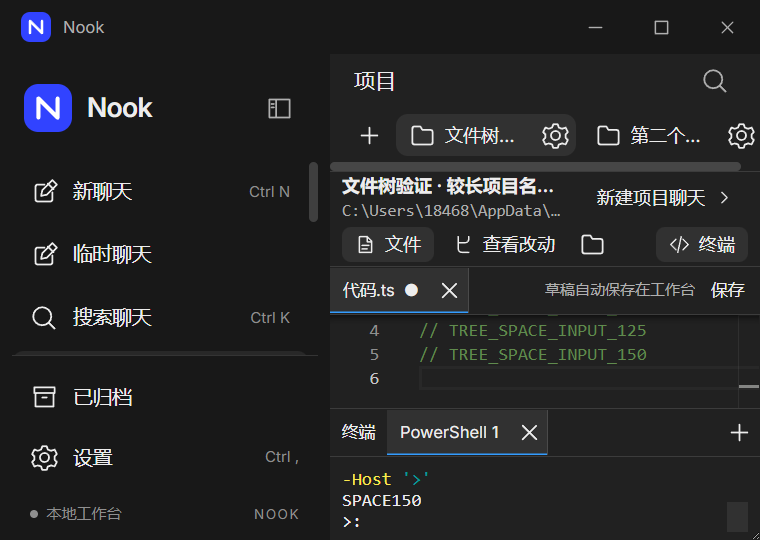
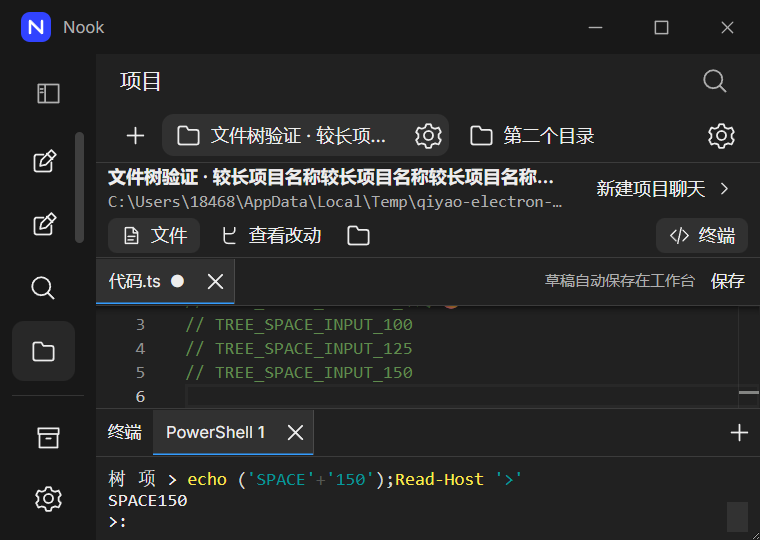
feat(ui): 增加窄窗口紧凑导航并修复聊天列表遮挡

diff --git a/workbench/workbench.tsx b/workbench/workbench.tsx
@@ -245,7 +245,7 @@ export function Workbench() {
   const library = state && <KnowledgeLibrary state={state} onState={setState} report={report} onUse={(type, id) => { if (type === 'collection') { newChat(); setKnowledgeCollectionIds([id]); } else { const note = state.notes.find((item) => item.id === id); if (!note) return; const next = `请参考以下资料回答我的问题：\n\n${note.title}\n${note.content}\n\n我的问题：`; if (next.length > 256_000) { report(new Error('这份资料较长，请使用资料集检索并输入问题。')); return; } newChat(); setText(next); } }} />;
   return <div className={`app-shell ${sidebar ? '' : 'sidebar-hidden'}`}>
     <header className="window-chrome"><div className="window-title"><Emblem size={20} /><span>Nook</span></div><div className="window-actions"><IconButton icon="minimize" label="最小化" onClick={() => { void window.qiyao.windowAction('minimize'); }} /><IconButton icon="maximize" label="最大化或还原" onClick={() => { void window.qiyao.windowAction('maximize'); }} /><IconButton icon="close" label="关闭窗口" onClick={() => { void window.qiyao.windowAction('close'); }} /></div></header>
-    {sidebar && <aside className="sidebar"><div className="sidebar-brand"><Emblem size={32} /><div><strong>Nook</strong></div><IconButton icon="panel" label="收起侧边栏" onClick={() => setSidebar(false)} /></div><div className="sidebar-main"><nav className="primary-nav"><Button className={page === 'chat' && !threadId ? 'nav-row selected' : 'nav-row'} onClick={newChat}><Glyph name="compose" />新聊天<kbd>Ctrl N</kbd></Button><Button className="nav-row" disabled={!state || startingTemporary} onClick={() => { void newTemporaryChat(); }}><Glyph name="compose" />临时聊天</Button><Button className="nav-row" onClick={() => setSearch('')}><Glyph name="search" />搜索聊天<kbd>Ctrl K</kbd></Button>{navigation.map((item) => <Button key={item.page} className={`nav-row ${page === item.page ? 'selected' : ''}`} onClick={() => setPage(item.page)}><Glyph name={item.icon} />{item.label}</Button>)}</nav><div className="sidebar-section-label">最近聊天<span>{recent.length || ''}</span></div><div className="thread-list">{recent.slice(0, 100).map((item) => <Button key={item.id} className={`thread-row ${threadId === item.id && page === 'chat' ? 'selected' : ''}`} onClick={() => openThread(item)}>{item.pinned && <Glyph name="pin" size={12} />}<span>{item.temporary ? `临时 · ${item.title}` : item.title}</span>{item.messages.some((message) => message.status === 'running') && <span className="stream-dot" />}</Button>)}{recent.length === 0 && <p className="sidebar-empty">暂无聊天</p>}</div></div><footer className="sidebar-footer"><Button className="nav-row" onClick={() => setPage('archive')}><Glyph name="archive" />已归档</Button><Button className="nav-row" onClick={() => setSettings(true)}><Glyph name="settings" />设置<kbd>Ctrl ,</kbd></Button><div className="local-indicator"><span className="status-dot" />本地工作台<span>NOOK</span></div></footer></aside>}
+    {sidebar && <aside className="sidebar"><div className="sidebar-brand"><Emblem size={32} /><div><strong>Nook</strong></div><IconButton icon="panel" label="收起侧边栏" onClick={() => setSidebar(false)} /></div><div className="sidebar-main"><nav className="primary-nav"><Button className={page === 'chat' && !threadId ? 'nav-row selected' : 'nav-row'} title="新聊天" onClick={newChat}><Glyph name="compose" />新聊天<kbd>Ctrl N</kbd></Button><Button className="nav-row" title="临时聊天" disabled={!state || startingTemporary} onClick={() => { void newTemporaryChat(); }}><Glyph name="compose" />临时聊天</Button><Button className="nav-row" title="搜索聊天" onClick={() => setSearch('')}><Glyph name="search" />搜索聊天<kbd>Ctrl K</kbd></Button>{navigation.map((item) => <Button key={item.page} title={item.label} className={`nav-row ${page === item.page ? 'selected' : ''}`} onClick={() => setPage(item.page)}><Glyph name={item.icon} />{item.label}</Button>)}</nav><div className="sidebar-section-label">最近聊天<span>{recent.length || ''}</span></div><div className="thread-list">{recent.slice(0, 100).map((item) => <Button key={item.id} title={item.temporary ? `临时 · ${item.title}` : item.title} className={`thread-row ${threadId === item.id && page === 'chat' ? 'selected' : ''}`} onClick={() => openThread(item)}>{item.pinned && <Glyph name="pin" size={12} />}<span>{item.temporary ? `临时 · ${item.title}` : item.title}</span>{item.messages.some((message) => message.status === 'running') && <span className="stream-dot" />}</Button>)}{recent.length === 0 && <p className="sidebar-empty">暂无聊天</p>}</div></div><footer className="sidebar-footer"><Button className="nav-row" title="已归档" onClick={() => setPage('archive')}><Glyph name="archive" />已归档</Button><Button className="nav-row" title="设置" onClick={() => setSettings(true)}><Glyph name="settings" />设置<kbd>Ctrl ,</kbd></Button><div className="local-indicator"><span className="status-dot" />本地工作台<span>NOOK</span></div></footer></aside>}
     <main className="workspace"><header className="workspace-header"><div>{!sidebar && <IconButton icon="panel" label="展开侧边栏" onClick={() => setSidebar(true)} />}{page === 'chat' ? thread ? <Button className="thread-title" title={thread.title} onClick={() => setRenaming(thread.title)}><span>{thread.title}</span><Glyph name="down" size={14} /></Button> : <span className="muted">新聊天</span> : <span>{page === 'plugin' ? panelPlugin?.manifest.panels.find((panel) => panel.id === pluginPanel.panelId)?.title ?? '插件面板' : navigation.find((item) => item.page === page)?.label ?? '已归档'}</span>}</div><div className="header-actions"><IconButton icon="search" label="打开命令面板" disabled={!state} onClick={() => setSearch('>')} />{page === 'chat' && thread && state && <><IconButton icon="find" label="查找当前聊天" onClick={() => setFindRequest((value) => value + 1)} />{originalThread && <IconButton icon="branch" label="打开原对话" onClick={() => openThread(originalThread)} />}<BranchNavigation onReorder={reorderBranch} key={thread.id} thread={thread} threads={state.threads} onSelect={async (id) => { await flushDrafts(); await openReplyVersion(id); }} /><IconButton icon="pin" label={thread.pinned ? '取消置顶' : '置顶聊天'} disabled={running} onClick={() => { void mutate({ ...thread, pinned: !thread.pinned }); }} /><IconButton icon="download" label="导出聊天" onClick={() => { void window.qiyao.exportThread(thread.id).catch(report); }} /><IconButton icon="archive" label={thread.archived ? '取消归档' : '归档聊天'} disabled={running} onClick={() => { void mutate({ ...thread, archived: !thread.archived }); }} /><IconButton icon="trash" label="删除聊天" disabled={running} onClick={() => setDeleteId(thread.id)} /></>}</div></header>
     {!state ? <div className="startup"><Emblem size={56} /><p>{error || '正在打开你的工作台…'}</p></div> : page === 'chat' ? thread ? <div className="chat-page"><Transcript findRequest={findRequest} onFindClose={() => setFindRequest(0)} thread={thread} threads={state.threads} onVersion={openReplyVersion} onEdit={(message) => { void openMessageEditor(message).catch(report); }} onQuote={quote} onBranch={(message) => { void branch(message); }} onRetry={() => { void retry(); }} report={report} /><div className="composer-dock">{composer}</div></div> : <div className="home"><div className="home-content"><h1>今天想做些什么？</h1><p className="home-description">提问、整理资料，或开始一个项目。</p>{composer}<div className="suggestions">{[{ icon: 'assistant', label: '理清一个想法', prompt: '我有一个想法，想请你帮我梳理。请先问我几个关键问题。' }, { icon: 'compose', label: '一起写点什么', prompt: '请帮我完善一段文字。我会提供初稿和希望的风格。' }, { icon: 'code', label: '开始一个项目', prompt: '我想开始一个新项目。请帮我明确需求，规划实现步骤。' }].map((item) => <Button key={item.label} onClick={() => setText(item.prompt)}><Glyph name={item.icon as GlyphName} size={16} />{item.label}</Button>)}</div></div><div className="home-footnote"><span>回答可能有误，请核实重要信息。</span></div></div> : page === 'plugin' ? pluginContent : page === 'projects' ? <Projects view={projectView} onView={setProjectView} state={state} onState={setState} onUse={(id) => { newChat(); setProjectId(id); }} report={report} /> : page === 'library' ? library : page === 'automations' ? <AutomationsPage state={state} onState={setState} report={report} onOpen={setRequestedTaskThread} /> : page === 'assistants' ? <Collections onPrompt={insertPrompt} state={state} onState={setState} report={report} onUse={(id) => { newChat(); setAssistantId(id); }} /> : <div className="collection-page"><div className="page-heading"><div><h1>已归档</h1><p>为重要的对话留一个安静的地方。</p></div></div>{state.threads.filter((item) => item.archived).length ? state.threads.filter((item) => item.archived).map((item) => <div className="list-row" key={item.id}><Button className="row-content" onClick={() => openThread(item)}><strong>{item.title}</strong><span>{item.messages.length} 条消息</span></Button><Button onClick={() => { void mutate({ ...item, archived: false }); }}>恢复聊天</Button></div>) : <Empty icon="archive" title="暂无归档聊天" detail="归档后，对话会从最近聊天移到这里。" />}</div>}
     </main>

diff --git a/workbench/theme/surfaces.css b/workbench/theme/surfaces.css
@@ -529,6 +529,18 @@ kbd { font-family: inherit; font-size: 10px; color: var(--ds-text-tertiary); whi
   .editor-files { width: 136px; }
   .changes-list { width: 188px; }
 }
+@media (max-width: 640px) {
+  .app-shell { grid-template-columns: 64px minmax(0, 1fr); }
+  .sidebar { padding: 8px; }
+  .sidebar-brand { justify-content: center; padding: 4px 0 12px; }
+  .sidebar-brand > svg, .sidebar-brand > div { display: none; }
+  .sidebar .nav-row { justify-content: center; gap: 0; padding: 8px; font-size: 0; }
+  .sidebar .nav-row kbd, .sidebar .local-indicator, .sidebar-empty { display: none; }
+  .sidebar-section-label { padding: 12px 4px 4px; font-size: 0; }
+  .sidebar-section-label > span { display: none; }
+  .sidebar .thread-row { padding: 6px 4px; font-size: 11px; gap: 2px; }
+  .sidebar .thread-list { min-height: 108px; }
+}
 @media (max-height: 650px) {
   .workspace:has(.projects-page) > .workspace-header { min-height: 36px; padding-top: 4px; padding-bottom: 4px; }
   .projects-page { padding: 12px; }

diff --git a/docs/DESIGN-ALIGNMENT.md b/docs/DESIGN-ALIGNMENT.md
@@ -6,7 +6,7 @@
 | --- | --- | --- |
 | `DESIGN.md`、`tokens.css`：中性灰、蓝色强调、明暗主题 | `workbench/theme/reference-tokens.css` 与 `surfaces.css` | 逐页核对语义色，清理局部硬编码 |
 | 首页：大输入框和工具栏 | 居中标题、输入框、任务建议；辅助操作在输入区不足 600px 时使用带提示的图标，保留已选数量 | 单行胶囊变体、更多复杂配置的输入区空间分配 |
-| 侧栏：240–280px、40px 导航行 | 默认 264px，40px 导航行 | 窄窗口与缩放时的折叠行为 |
+| 侧栏：240–280px、40px 导航行 | 默认 264px、40px 导航行；低于 640px 的内容视口采用 64px 紧凑导航，保留操作提示和可滚动聊天列表 | 紧凑导航属于窄屏适配，不能称为参考侧栏的逐像素复制 |
 | `控件完整规范.txt`：输入、选择、菜单、开关 | 共享控件与参考尺寸；选择器使用可样式化的原生弹层，采用参考圆角、选项字号、留白和选中标记 | 仍需对更多内容长度、弹出方向及各页面控件组合核对 |
 | `组件规范.txt`：对话框、设置、消息和项目面板 | 设置采用 720×460 弹窗、固定分类导航和独立内容滚动；项目切换移到顶部，文件树与编辑器组成工作区 | 其他对话框、消息和输入区仍需分别核对 |
 | `字体规范.txt`：OpenAI Sans | Inter + 系统中文字体 | 明确的字体差异，不能计为一致 |
@@ -28,3 +28,5 @@
 项目页取消选中项目后的重复大标题和独立项目列表列，改为顶部项目切换栏。1280px 窗口下实际编辑器宽度超过 700px；文件树、创建与保存文件、草稿恢复、切换项目、原生终端及 100%／125%／150% 缩放回归通过。截图：[编辑器](images/project-editor.png)、[窄窗口与终端](images/project-zoomed.png)。这些是源码构建证据，最终分发包仍需重新构建验证。
 
 输入区使用容器宽度控制辅助操作的文字显示，模板、比较、工具和资料集保留完整可访问名称与悬停说明。临时聊天和模型比较共 12 项桌面回归通过；另在 760×540 窗口启用项目、模板、工具和资料集，验证键盘打开模板、选择数量和草稿保留。截图：[完整工具栏](images/composer-tools.png)、[临时聊天 150% 缩放](images/composer-zoomed.png)。极窄高度仍可能需要横向滚动工具行，不能视为所有密度问题都已解决。
+
+紧凑侧栏在 125%／150% 缩放时为聊天与编辑器释放宽度，恢复宽窗口后自动显示完整导航。首次验证发现聊天列表可能被底部导航遮挡，现通过保留列表最小滚动高度修复；模型比较中的实际聊天切换与临时聊天回归已重新通过。
